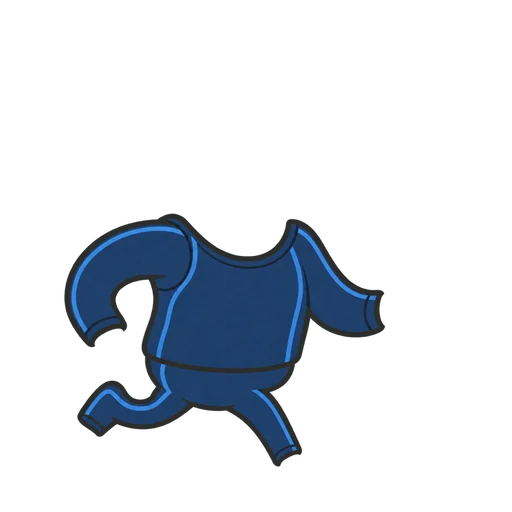
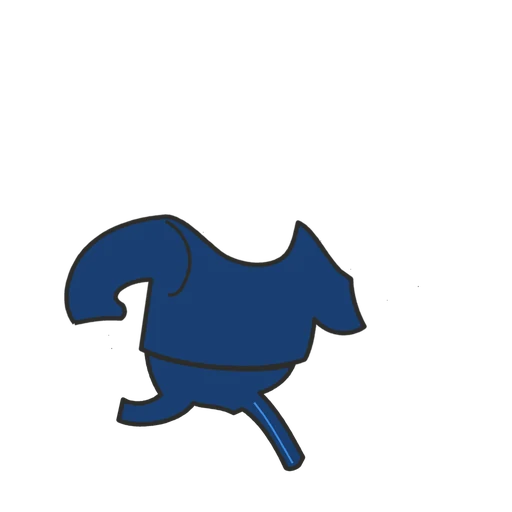
Replace the duck outfit art with pieces drawn to the duck's outline
All 20 garments were redrawn in place on the 1024 px duck reference and
clipped to its silhouette, so sleeves, legs and hands follow the body.
They are halved to 512 px WebP with no per-piece fitting (127 KB total,
each still fetched only when worn). The README describes the new process.

Changed region(s): [[0.125, 0.4062, 0.75, 0.9375]]

diff --git a/src/assets/duck-outfit/README.md b/src/assets/duck-outfit/README.md
@@ -4,19 +4,18 @@ The Daily Dashboard draws the mascot dressed for the weather:
 `duck-base.webp` (the mascot from `design/duck-mascot.webp`, 512 × 512) with
 one transparent layer per outfit item stacked on top.
 
-The pieces were drawn by ChatGPT from the brief in `design/duck-art-brief/`
-(1024 × 1024 PNGs with transparent backgrounds). Each was then fitted onto the
-duck: the scale and position that best covers that garment's zone (torso,
-arms, hands, head, neck, hips and legs) was kept when it clearly helped. The
-originals stay as drawn for the vest, gloves, light gloves, mittens, tee, long sleeve,
-thermal layers, cap, headlamp, sunglasses and ice cleats. The raincoat (110 %) and neck warmer (100 %) were then sized up by hand
-after a look on the phone, because the automatic fit made them too small. They were then
-scaled to 512 × 512 WebP (about 8 KB each).
+The pieces were drawn from the brief in `design/duck-art-brief/` as
+1024 × 1024 transparent PNGs, then redrawn against a traced map of the duck
+(landmarks and one mask per body region of `01-duck-reference.png`, which is
+`duck-base.webp` at twice the size). Each garment is drawn in place on that
+canvas and clipped to the duck's outline, so no per-piece scaling or nudging
+is needed: every file is simply halved to 512 × 512 WebP (3 to 11 KB each).
 
 - **Swap a piece:** replace `<item>.webp` with a transparent image the same
   size as `duck-base.webp` (512 × 512), with the garment drawn exactly where it
-  sits on the duck and nothing else. A 1024 × 1024 PNG from the brief is fine
-  too: send it over and it gets fitted and converted the same way.
+  sits on the duck and nothing else. A 1024 × 1024 PNG drawn in place on
+  `design/duck-art-brief/01-duck-reference.png` is fine too: halve it to
+  512 × 512 and save it as WebP.
 - **Check it:** `npm run dev`, open the Daily Dashboard and pick run times
   until the outfit uses your piece.
 - **Stacking order** (what covers what) is `LAYER_ORDER` in
